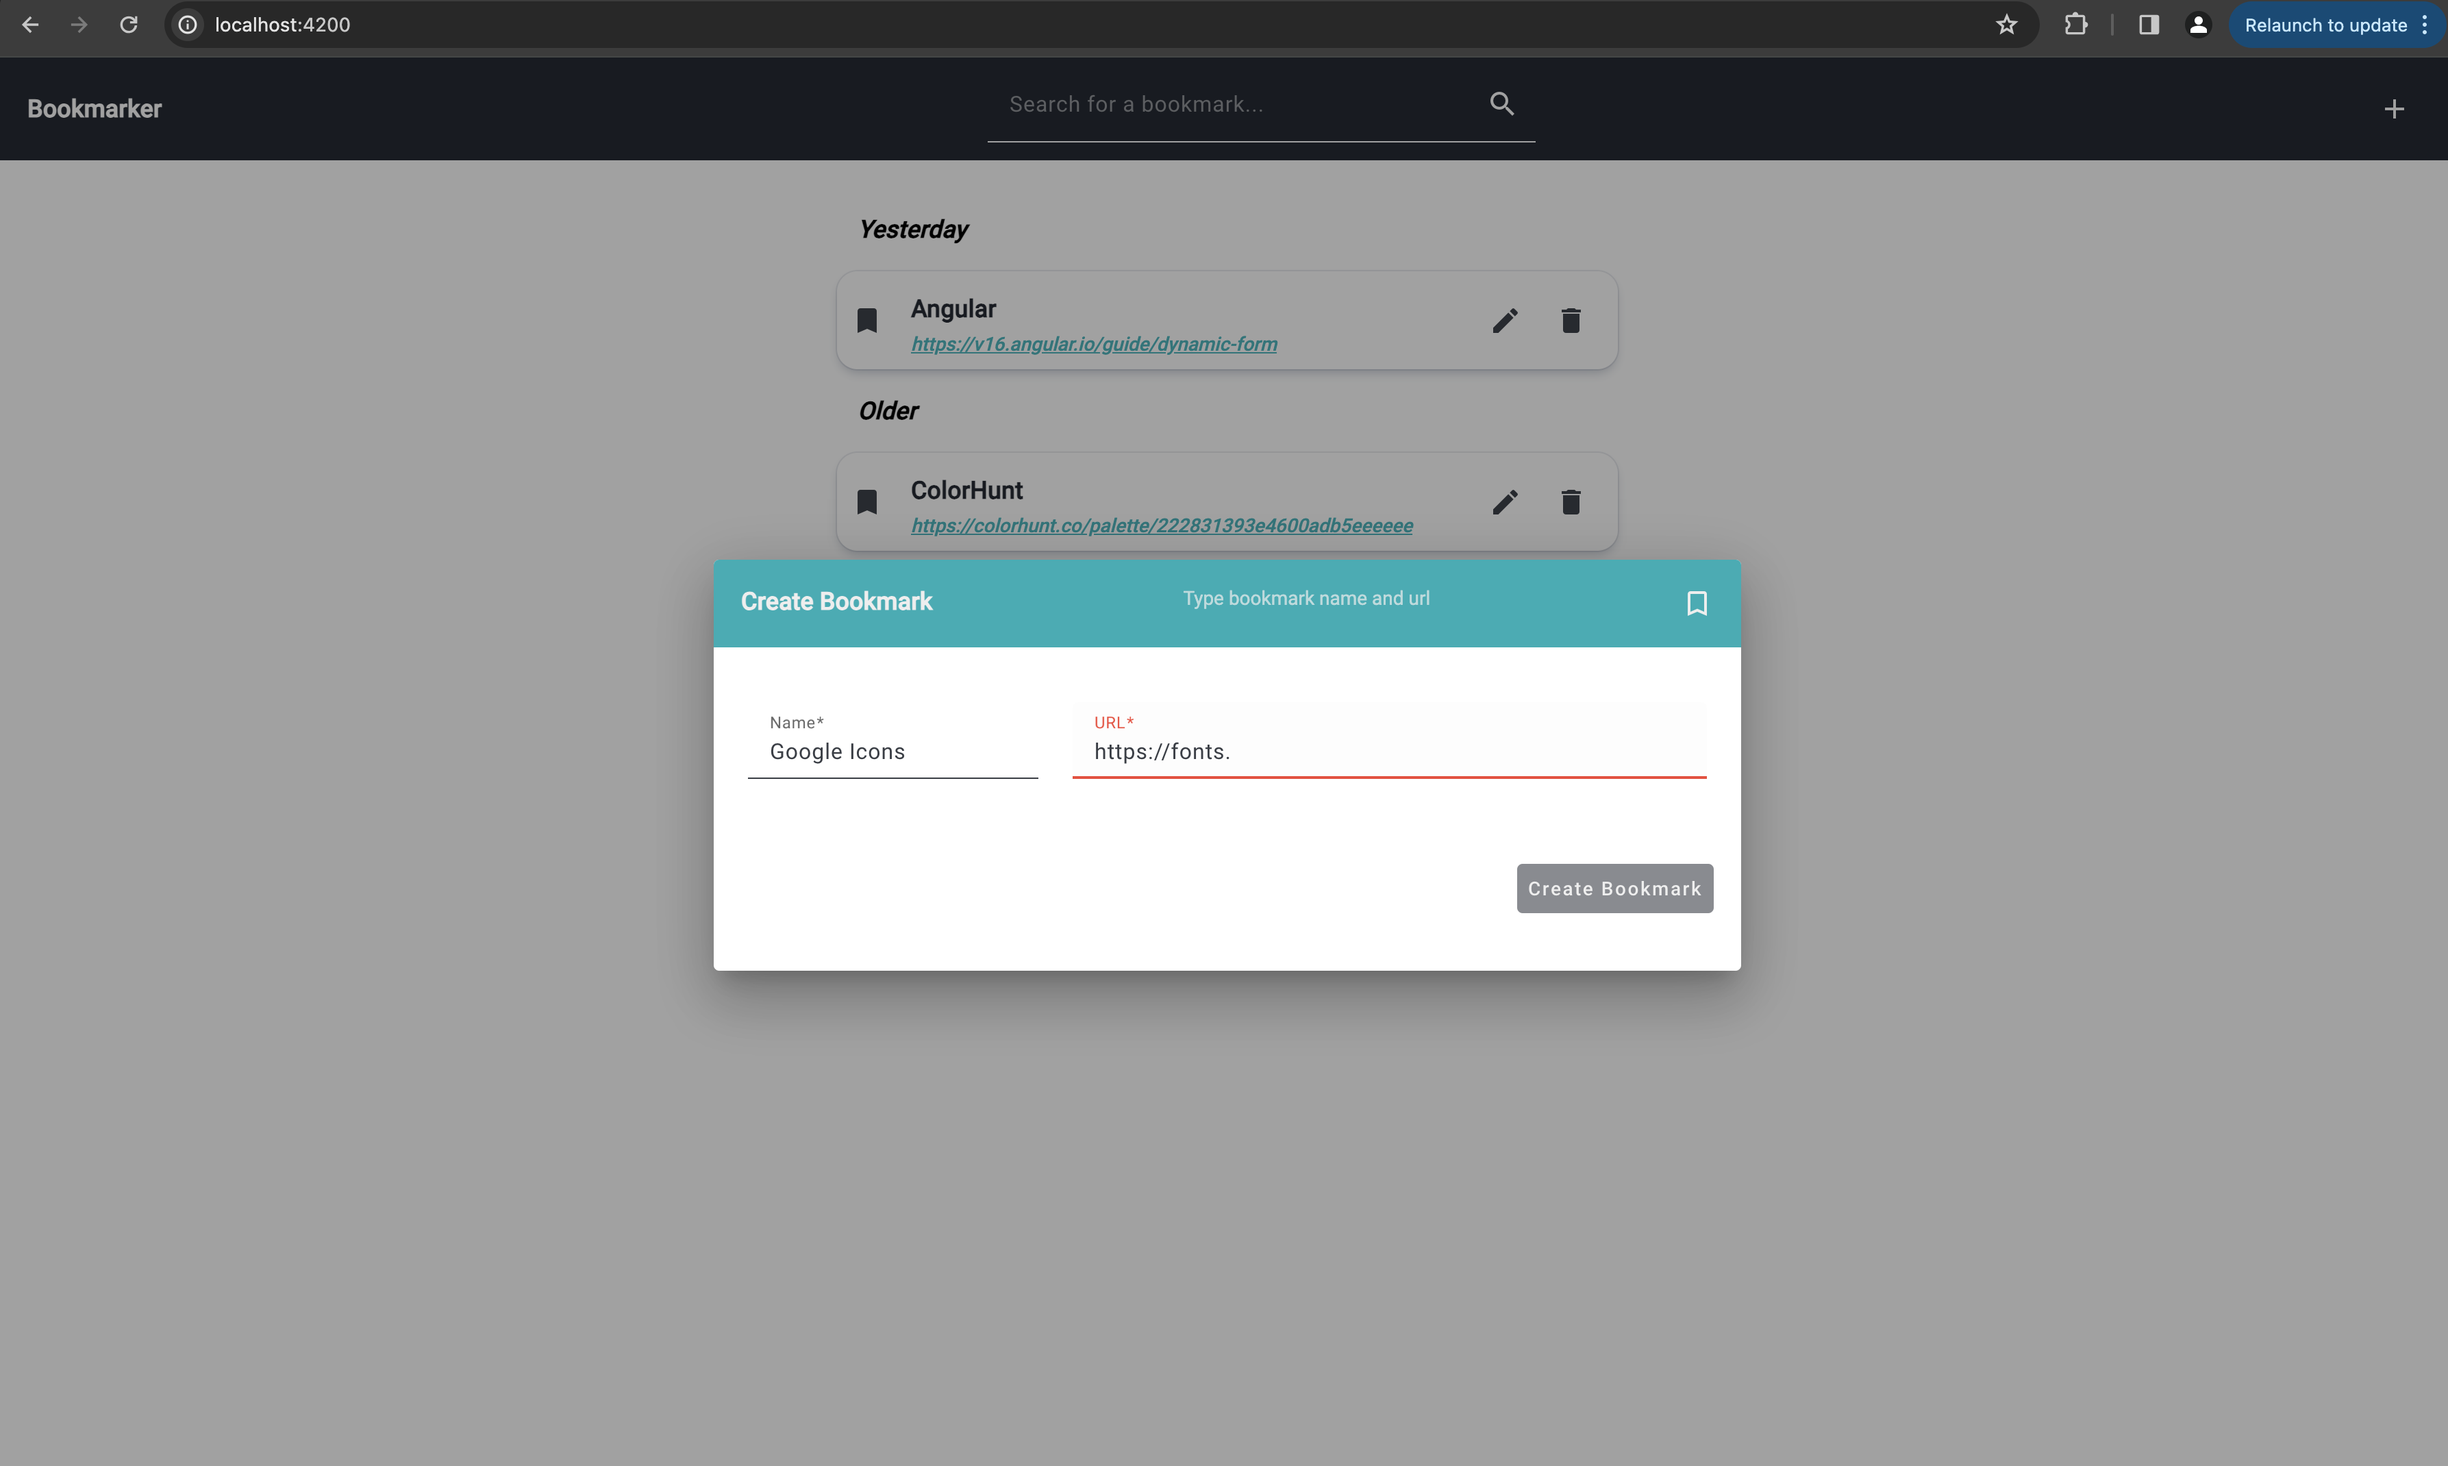
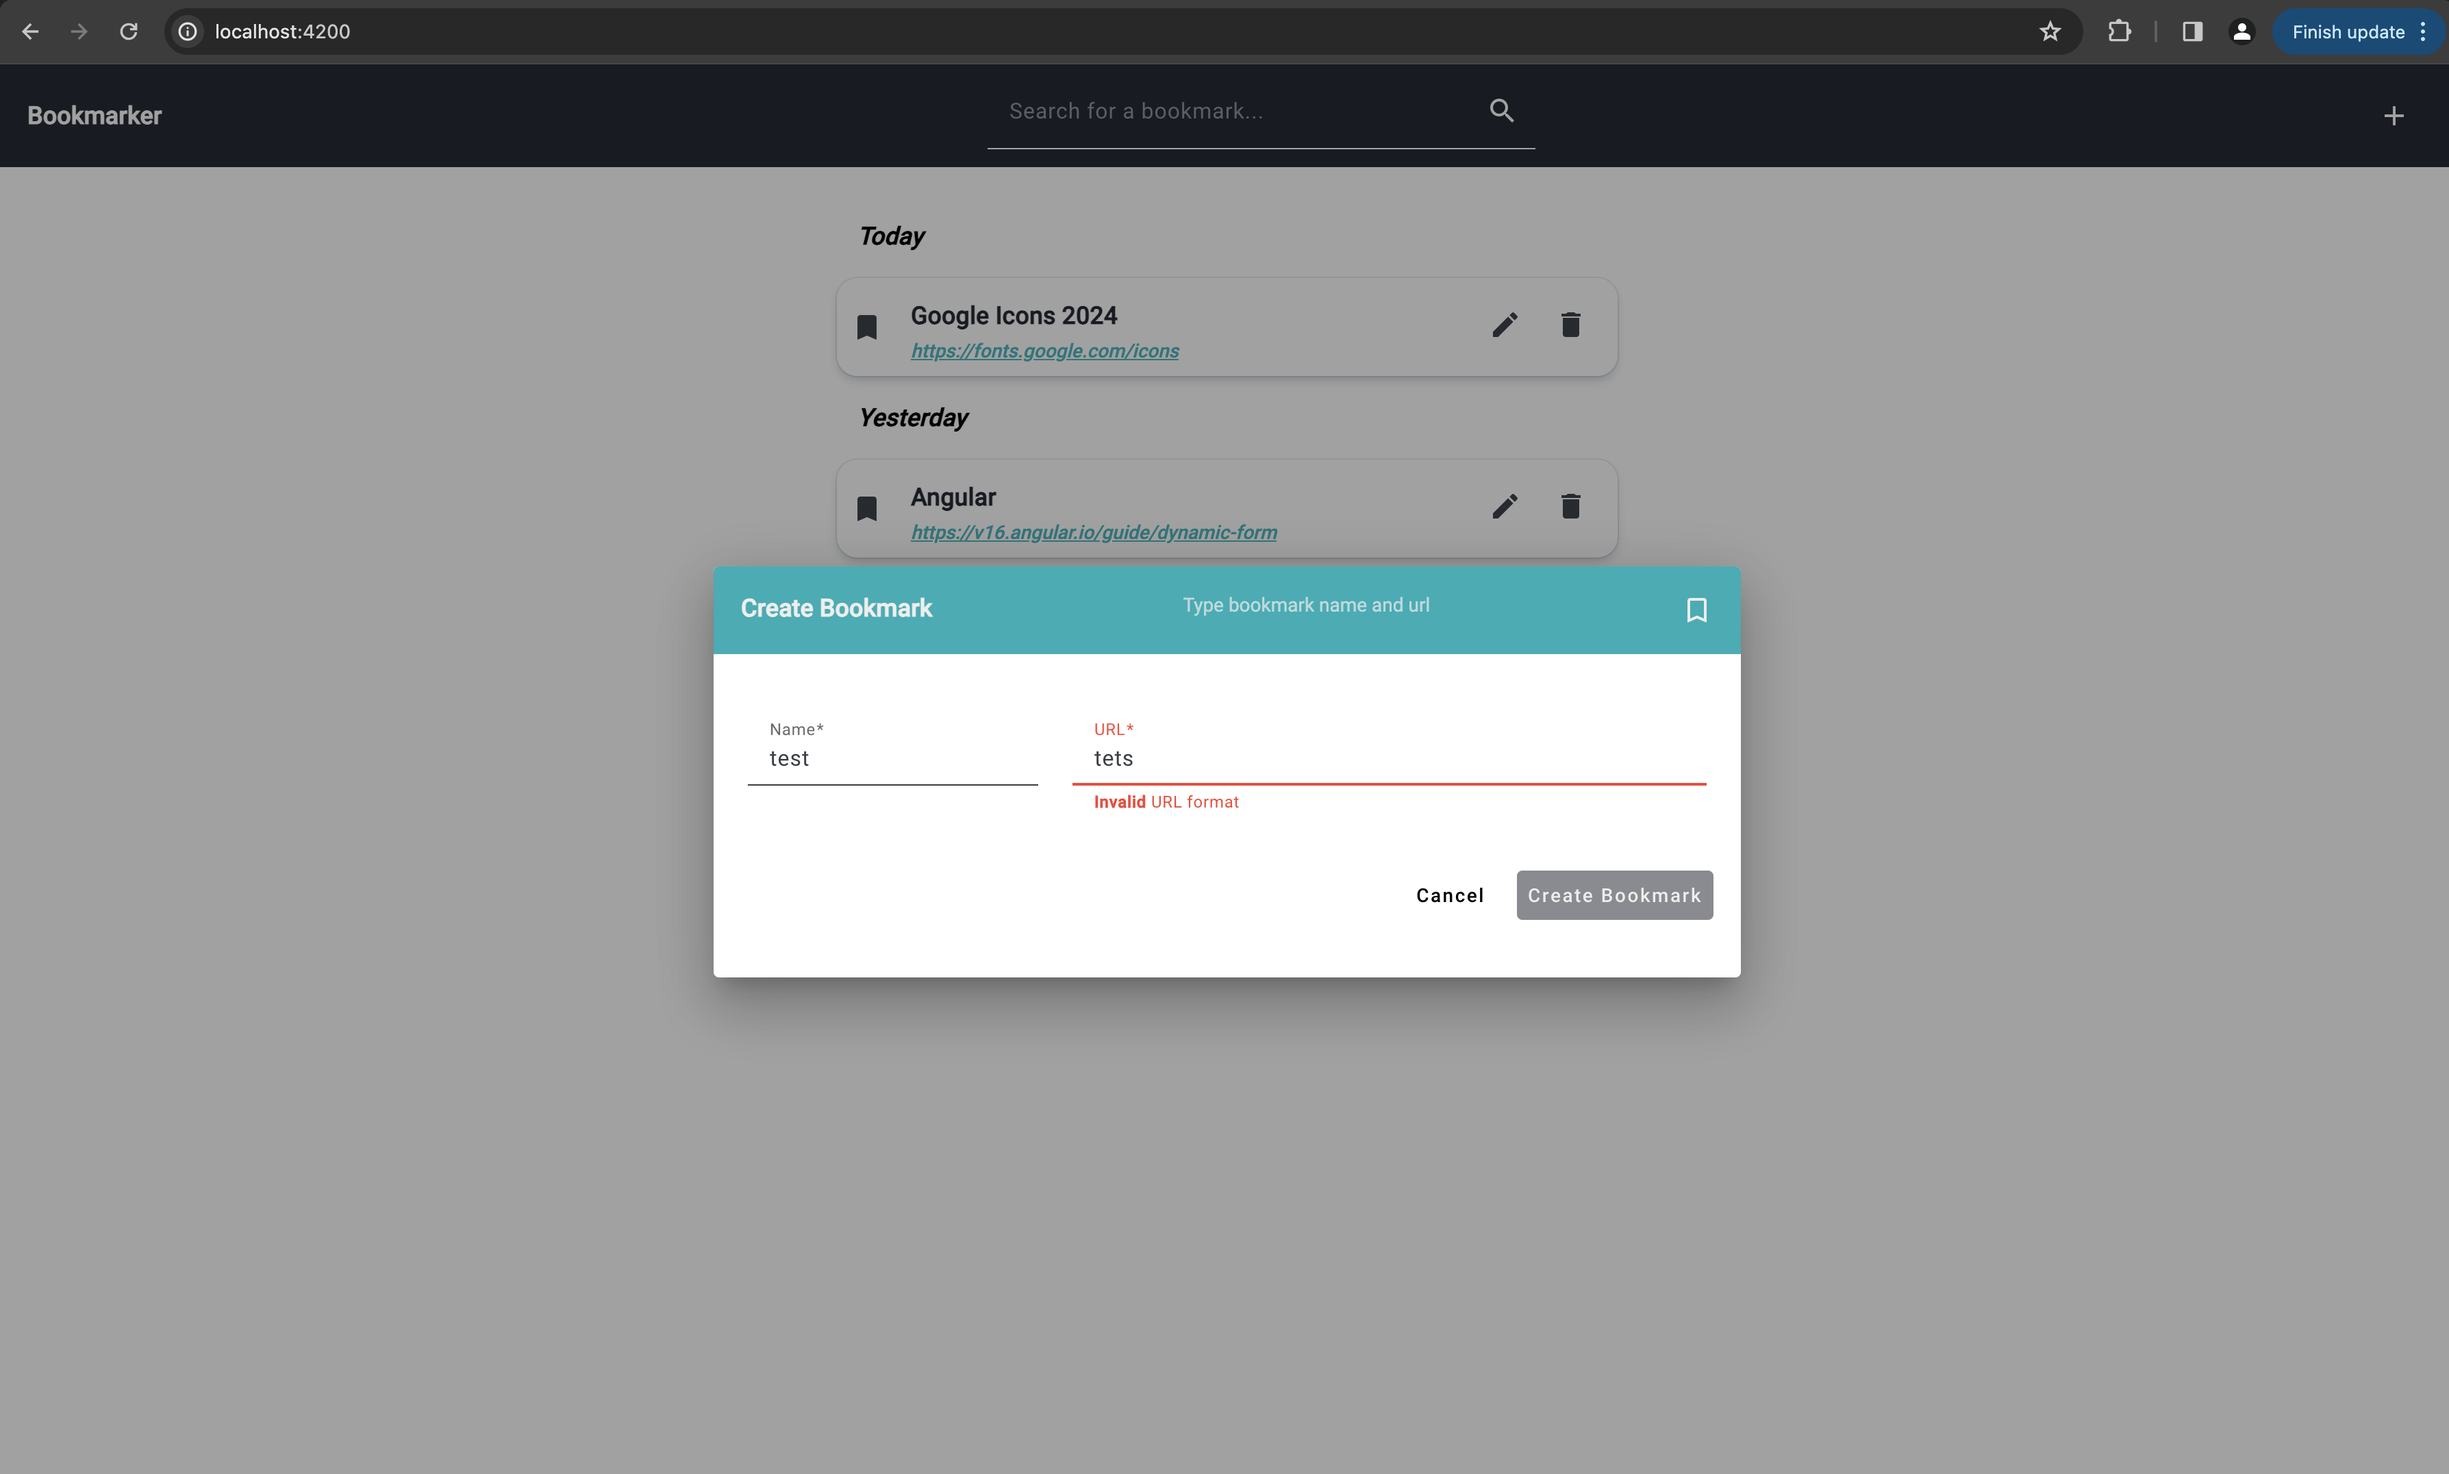
update readme

diff --git a/README.md b/README.md
@@ -73,3 +73,9 @@ Open your browser on http://localhost:4200/
   I used NgRx to store bookamrks and filtered bookmarks in app state.
 
   ![App Screenshot](https://github.com/praluca/bookmarker/blob/main/pictures_of_app/ngrx_store.png)
+
+  ## Error Handling
+
+  I used an HTTPError interceptor that will catch all errors that come through endpoints
+
+  ![App Screenshot](https://github.com/praluca/bookmarker/blob/main/pictures_of_app/error_400.png)
